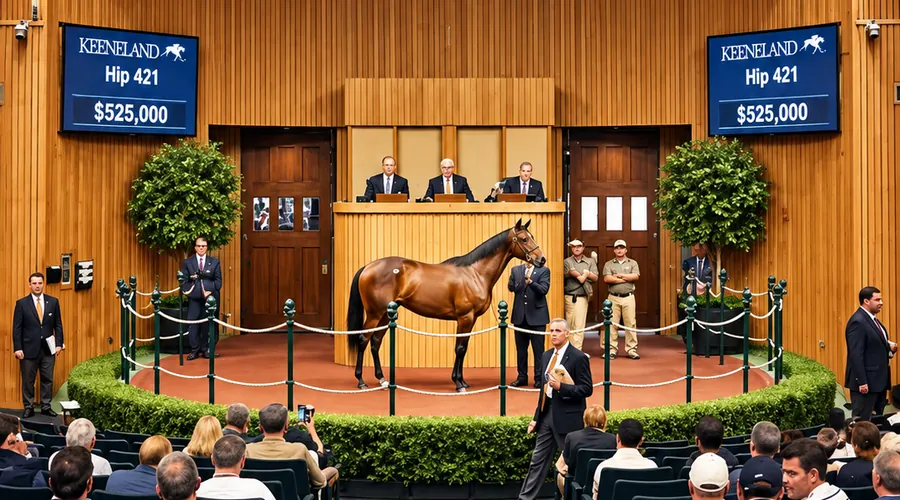
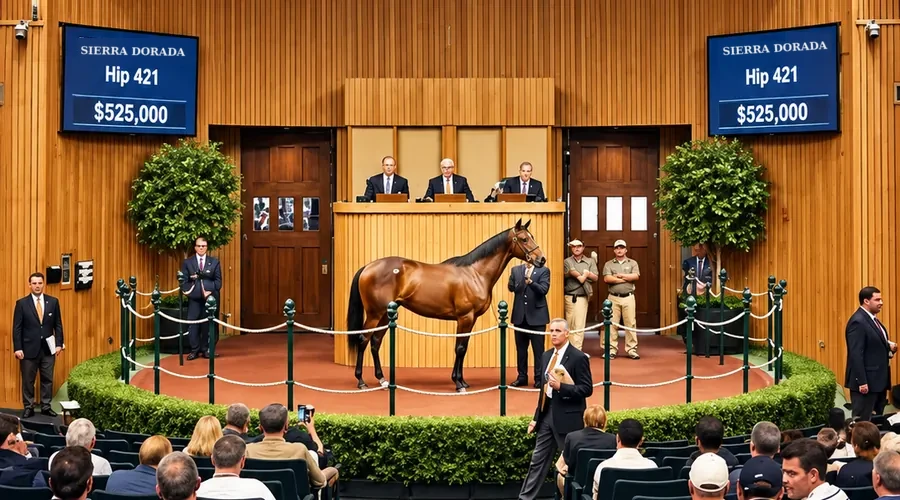
V27-V29: economía balanceada, Primeros pasos, perfiles y caja propia de rivales, imagen de subasta Sierra Dorada, exportar/importar partida
Claude-Session: https://claude.ai/code/session_01GE2kaJBKzPrWFKkMPZnvoq

Changed region(s): [[0.7778, 0.06, 0.9333, 0.12], [0.0933, 0.06, 0.2178, 0.12]]

diff --git a/www/index.html b/www/index.html
@@ -272,6 +272,7 @@ function crownWin(h,k,stable,you){
 const gpWins=h=>(h.gpW&&h.gpW[curSeason()])||0;
 function gpMark(h){h.gpW=h.gpW||{};h.gpW[curSeason()]=(h.gpW[curSeason()]||0)+1;}
 const UPK=220,UPKF=170,HANDLING=350;
+const upkOf=h=>{if(h.age<8)return UPKF;const v=horseValue(h);return UPK+(isFinite(v)?Math.min(1200,Math.round(v*0.0015)):0);}; /* el mantenimiento crece con el valor del caballo */
 const VET='Daniela Levy Arochi';
 const VET_BREED=5000; // servicio veterinario en cada cruza (USD)
 const MEDS=[
@@ -724,7 +725,7 @@ const breederOf=h=>h.br==='me'?G.name:(h.br||(h.sid!=null&&G.stables[h.sid]?G.st
 const nodeOf=x=>({n:x.name,s:x.ped?x.ped.s:null,d:x.ped?x.ped.d:null});
 function trim(n,k){return(!n||k<=0)?null:{n:n.n,s:trim(n.s,k-1),d:trim(n.d,k-1)};}
 function newGame(name,colors){
-  G={siv:2,kids:{},trophies:[],staff:{T:{id:'T0',s:1},J:{id:'J0',s:1},F:{id:'F0',s:1}},nm2:1,priceIdx:[],tx:[],classics:[],sireW:{},name:name||'Cuadra Los Aztecas',colors:colors||{c1:SW[0],c2:SW[9]},money:100000,week:1,nid:1,rid:1,earnS:0,hall:[],
+  G={tut:{},siv:2,kids:{},trophies:[],staff:{T:{id:'T0',s:1},J:{id:'J0',s:1},F:{id:'F0',s:1}},nm2:1,priceIdx:[],tx:[],classics:[],sireW:{},name:name||'Cuadra Los Aztecas',colors:colors||{c1:SW[0],c2:SW[9]},money:100000,week:1,nid:1,rid:1,earnS:0,hall:[],
     horses:[],races:[],auction:[],news:[],records:{},stables:[],rivalHorses:[]};
   for(const D of DISTS)G.records[D]=Object.assign({week:0,you:false},SEED_RECORDS[D]);
   G.stables=RIVALS.map(r=>Object.assign({earn:0,wins:0},r));G.rstuds=[];ensureRLabs();
@@ -765,7 +766,9 @@ function clasicoName(D,k){
   const pool=(CLASSIC[D]||[]).concat(CLX);const di=DISTS.indexOf(D);
   return pool[(G.week*2+di*3+k*5+curSeason())%pool.length];
 }
-function genRaces(){
+const PZ=0.65; /* ajuste de economía: bolsas ordinarias ×0.65 (los Grandes Premios, clásicos del calendario, Futurity y especiales no cambian) */
+function genRaces(){const a=genRaces0();for(const r of a){if(r.tier!=='gp')r.purse=Math.round(r.purse*PZ/50)*50;}return a;}
+function genRaces0(){
   const out=[];const boost=Math.min(6,G.week*0.15);
   for(const D of DISTS)for(const tr of TIERS)for(let k=0;k<(tr.id==='gp'?2:tr.id==='clasico'?4:3);k++){
     let purse=Math.round(PURSE[D]*tr.mult/50)*50;const target=tr.lv+boost;
@@ -808,6 +811,51 @@ const SCL=[
  {w:33,n:'Clásico Herradura de Plata',D:330,g:1,p:500000},
  {w:35,n:'Copa Estrella Fugaz',D:220,g:3,p:160000,juv:1}];
 const SEL_END=5;
+/* perfil de cada cuadra rival: criadora (busca el mejor cruce), compradora (compra más en subastas) o corredora (prefiere corredores) */
+const PF={crio:['🧬','Criadora'],comp:['💰','Compradora'],corr:['🏇','Corredora']};
+const pfOf=si=>{const st=G.stables[si];if(!st)return 'corr';if(!st.pf)st.pf=['crio','comp','corr'][hs(st.name)%3];return st.pf;};
+function pickStab(kind){
+  const w=G.stables.map((_,i)=>{const p=pfOf(i);let x=1;if(p==='comp')x=2;if(kind==='stal'||kind==='mare'||kind==='share'||kind==='foal'){if(p==='crio')x*=2.5;if(p==='corr')x*=0.6;}else if(kind==='run'){if(p==='corr')x*=2.5;if(p==='crio')x*=0.6;}return x;});
+  let r=Math.random()*w.reduce((a,b)=>a+b,0);for(let i=0;i<w.length;i++){r-=w[i];if(r<=0)return i;}return 0;
+}
+/* ---------- CAJA DE LAS CUADRAS RIVALES ---------- */
+const RIVFEE=0.5,RIVUPK=1,RIVNET=0.55,RIVOH=1100; /* neto del premio tras jinete, entrenador y gastos; costo fijo semanal por caballo */
+const CASH0=st=>Math.round((350000+(hs(st.name)%8)*120000)/1000)*1000;
+const stCash=st=>{if(st.cash==null)st.cash=CASH0(st);return st.cash;};
+function pay(si,x){const st=G.stables[si];if(!st||!isFinite(x))return;stCash(st);st.cash+=x;}
+const rivUpk=h=>{const v=horseValue(h);return 190+RIVOH+(isFinite(v)?Math.min(900,Math.round(v*0.001)):0);};
+function rivalEconomy(rep){
+  /* gastos semanales y crisis */
+  G.stables.forEach((st,si)=>{
+    stCash(st);
+    const mine=G.rivalHorses.filter(h=>h.sid===si&&!h.g);
+    st.cash-=Math.round(mine.reduce((a,h)=>a+rivUpk(h),0)*RIVUPK);
+    if(st.cash<-20000){
+      const w=mine.filter(h=>!(h.ex&&h.pin>0)).sort((a,b)=>rating(a)-rating(b)).slice(0,Math.max(1,Math.ceil(mine.length*0.4)));
+      let n=0;
+      for(const h of w){if(mine.length-n<=5)break;const lot=lotFrom(h,'run',st.name);G.auction.push(lot);st.cash+=Math.round(lot.price*0.6);G.rivalHorses.splice(G.rivalHorses.indexOf(h),1);n++;}
+      st.cap=Math.max(5,(st.cap||8)-2);
+      if(n&&rep.news.length<16)rep.news.push(`📉 ${st.name} atraviesa una crisis de liquidez y vende ${n} caballo${n>1?'s':''} en la Subasta Sierra Dorada MX`);
+      if(st.cash<-20000){st.cash=120000;st.brk=(st.brk||0)+1;if(rep.news.length<16)rep.news.push(`🏦 ${st.name} cae en quiebra y es rescatada por nuevos inversionistas`);}
+    }
+  });
+  buildMap();
+  /* compras en la subasta de México por cuadras con caja */
+  let bought=0;
+  const order=G.stables.map((_,i)=>i).sort(()=>Math.random()-0.5);
+  for(const si of order){
+    if(bought>=2)break;const st=G.stables[si],pf=pfOf(si);
+    if(stCash(st)<250000)continue;
+    if(Math.random()>({comp:0.5,corr:0.35,crio:0.15})[pf])continue;
+    const mine=G.rivalHorses.filter(h=>h.sid===si&&!h.g).map(rating).sort((a,b)=>a-b),med=mine.length?mine[Math.floor(mine.length/2)]:55;
+    const c=G.auction.filter(a=>a.lot==='run'&&a.price<=st.cash*0.3&&rating(a)>=med).sort((a,b)=>rating(b)/Math.max(1,b.price)-rating(a)/Math.max(1,a.price)||rating(b)-rating(a));
+    if(c[0]&&placeRival(c[0],si,{})){st.cash-=c[0].price;G.auction=G.auction.filter(x=>x!==c[0]);bought++;if(rep.news.length<14&&Math.random()<0.7)rep.news.push(`🔨 ${st.name} compra a ${c[0].name} en la Subasta Sierra Dorada MX por ${fmt(c[0].price)}`);}
+    else if(pf==='crio'){const sl=G.auction.filter(a=>a.lot==='stal'&&a.price<=st.cash*0.35).sort((a,b)=>rating(b)-rating(a))[0];
+      if(sl){addRStud(si,sl);st.cash-=sl.price;G.auction=G.auction.filter(x=>x!==sl);bought++;if(rep.news.length<14)rep.news.push(`🐎 ${st.name} compra al semental ${sl.name} por ${fmt(sl.price)}`);}}
+  }
+  buildMap();
+}
+const pairVal=(m,x)=>{const p=predict(m,x);return(p.stats.speed+p.stats.start+p.stats.stamina)/3;};
 function genSelectLots(rep){
   const out=[];
   if(!G.stables)return out;
@@ -817,7 +865,9 @@ function genSelectLots(rep){
     const m=mares[0];if(!m)continue;
     const own=(G.rstuds||[]).filter(x=>x.sid===si).sort((a,b)=>rating(b)-rating(a))[0];
     const best=pool.filter(x=>!x.legend).sort((a,b)=>rating(b)-rating(a)).slice(0,6);
-    const sire=Math.random()<0.15?pick(LEGENDS):(own&&Math.random()<0.55)?own:pick(best.length?best:[own].filter(Boolean));
+    let sire=Math.random()<0.15?pick(LEGENDS):(own&&Math.random()<0.55)?own:pick(best.length?best:[own].filter(Boolean));
+    stCash(G.stables[si]);
+    if(pfOf(si)==='crio'){const cand=[own].concat(best).filter(x=>x&&!related(m,x)).sort((a,b)=>pairVal(m,b)-pairVal(m,a));if(cand[0])sire=cand[0];}
     if(!sire)continue;
     ensureRLabs();LABCTX=G.stables[si].lab;GENCTX=G.stables[si].gen||[];let f,cbv;try{f=breed(m,sire);cbv=labBonus('cond',sire);}finally{LABCTX=null;GENCTX=null;}
     const sex=Math.random()<.5?'H':'M';
@@ -825,6 +875,7 @@ function genSelectLots(rep){
     o.sireName=sire.name;o.damName=m.name;o.anc=f.anc;o.ped={s:{n:sire.name},d:{n:m.name}};if(cbv)o.cb=cbv;
     o.lot='sel';o.seller=G.stables[si].name;
     o.price=Math.max(3500,Math.round(horseValue(o)*2.4/50)*50);
+    pay(si,Math.round(o.price*0.7)-((sire&&sire.sid!==si&&!sire.legend)?Math.min(25000,Math.round(studFee(rating(sire),false))):0));
     out.push(o);
     if(rep&&rep.news.length<16&&out.length<=5)rep.news.push(`🌟 Subasta Selecta: ${G.stables[si].name} ofrece un potro de ${m.name} y ${sire.name}`);
   }
@@ -1007,10 +1058,10 @@ function rotateRivals(rep){
       G.rivalHorses[idx]=nh;
       if(r>=64||(h.wins||0)>=14&&r>=58){
         const lot=h.sex==='M'?'stal':'mare';
-        if(h.sex==='M')addRStud(si,h);else if(Math.random()<0.6)lots.push(lotFrom(Object.assign({},h,{age:Math.max(h.age,150)}),lot,st));
+        if(h.sex==='M')addRStud(si,h);else if(Math.random()<0.6){const L=lotFrom(Object.assign({},h,{age:Math.max(h.age,150)}),lot,st);lots.push(L);pay(h.sid,Math.round(L.price*0.7));}
         if(news<4){news++;rep.news.push(h.sex==='M'?`🐎 ${st} retira a ${h.name} como semental (${h.wins} victorias)`:`🐎 ${st} retira a ${h.name} a la cría (${h.wins} victorias)`);}
       }else{
-        lots.push(lotFrom(h,'run',st));
+        {const L=lotFrom(h,'run',st);lots.push(L);pay(h.sid,Math.round(L.price*0.7));}
         if(news<4&&Math.random()<0.6){news++;rep.news.push(`🔨 ${st} pone a la venta a ${h.name} en la Subasta Sierra Dorada MX`);}
       }
     }
@@ -1024,7 +1075,7 @@ function rotateRivals(rep){
     else if(med>0&&ls<med*0.6&&Math.random()<0.5)st.cap=Math.max(5,st.cap-1);
     else if(Math.random()<0.2)st.cap=Math.min(MAXRACERS,st.cap+1);
     let mine=G.rivalHorses.filter(h=>h.sid===si);
-    let add=0;while(mine.length<st.cap&&add<3){const nh=Object.assign(mkRival(si),{age:Math.round(rnd(104,130))});G.rivalHorses.push(nh);mine.push(nh);add++;}
+    let add=0;while(mine.length<st.cap&&add<3){const nh=Object.assign(mkRival(si),{age:Math.round(rnd(104,130))});const cost=Math.round(horseValue(nh)*0.8);if(mine.length>=5&&stCash(st)<cost+60000)break;if(mine.length>=5)st.cash-=cost;G.rivalHorses.push(nh);mine.push(nh);add++;}
     if(add&&grown<3&&rep){grown++;rep.news.push(`🏇 ${st.name} amplía su cuadra: ahora corre con ${mine.length} caballos`);}
     if(mine.length>st.cap){const w=mine.filter(h=>!(h.ex&&h.pin>0)).sort((a,b)=>rating(a)-rating(b))[0];if(w){G.rivalHorses.splice(G.rivalHorses.indexOf(w),1);lots.push(lotFrom(w,'run',st.name));}}
    }}
@@ -1495,7 +1546,7 @@ function rRancho(){
   const preg=rs.filter(x=>x.sex==='H'&&x.status==='retired'&&x.preg&&!isFoal(x));
   const foals=rs.filter(isFoal);
   const mat=[...preg,...foals];
-  const upk=rs.reduce((q,x)=>q+(x.age<8?UPKF:UPK),0);
+  const upk=rs.reduce((q,x)=>q+upkOf(x),0);
   let h=`<div class="card" style="padding:8px">${ranchSvg(stal,mares,mat)}</div>
    <div class="legend" style="font-size:11px;color:var(--muted);margin:4px 2px">🔵 semental · 🌸 yegua preñada · toca un caballo del dibujo para abrir su ficha</div>
  <button class="btn gold" data-act="labopen" style="margin-bottom:8px">🧬 Laboratorio genético · Vel ${labLv('speed')} · Arr ${labLv('start')} · Res ${labLv('stamina')} · Cond ${labLv('cond')}</button>
@@ -1511,11 +1562,20 @@ function rRancho(){
   if(foals.length)h+='<div class="title">Potros</div>'+foals.map(horseCard).join('');
   return h;
 }
+const MIS=[['b','🔨','Compra un corredor en la Subasta','mercado'],['r','🏇','Inscríbelo en una carrera','carreras'],['w','⏭','Avanza una semana (botón Sem ▶)',null],['c','🧬','Cruza a tu yegua en Crianza','crianza'],['l','📅','Revisa el calendario de clásicos','carreras']];
+function misHTML(){
+  const T=G.tut;if(!T||T.done||T.off)return '';
+  const n=MIS.filter(m=>T[m[0]]).length;
+  return `<div class="card" style="border:1px solid var(--gold,#c9a24a)"><div class="row"><b>🎯 Primeros pasos</b><span class="sp"></span><span class="badge ${n===MIS.length?'g':'y'}">${n}/${MIS.length}</span></div>`+
+   MIS.map(m=>`<div class="row" style="margin:4px 0;gap:6px"><span>${T[m[0]]?'✅':'⬜'}</span><span style="flex:1;${T[m[0]]?'text-decoration:line-through;opacity:.6':''}">${m[1]} ${m[2]}</span>${!T[m[0]]&&m[3]?`<button class="btn sm ghost" data-act="tutgo" data-v="${m[3]}">Ir</button>`:''}</div>`).join('')+
+   `<div class="sub" style="margin-top:6px">Completa los 5 y recibes <b>$10,000</b> de bono de bienvenida.</div><button class="btn ghost sm" data-act="tutoff">Ocultar</button></div>`;
+}
+function misDone(k){const T=G&&G.tut;if(!T||T.done||T[k])return;T[k]=1;if(MIS.every(m=>T[m[0]])){T.done=1;G.money+=10000;toast('🎉 ¡Primeros pasos completos! +$10,000');}}
 function rCuadra(){
   const order={race:0,retired:1};
   const hs=G.horses.filter(h=>!inRanch(h)).sort((a,b)=>(isFoal(a)-isFoal(b))||(order[a.status]-order[b.status])||(rating(b)-rating(a)));
-  const upkeep=G.horses.reduce((s,h)=>s+(h.age<8?UPKF:UPK),0);
-  let h=`<div class="note">Gasto semanal: <b>${fmt(upkeep)} USD</b> · Corredores <b>${racersN()}/${MAXRACERS}</b> · ${G.horses.length} caballo${G.horses.length===1?'':'s'} en total. Toca un caballo para entrenar, retirar, vender o subastar. Tus yeguas, sementales y potros viven en el <b>🏡 Rancho</b>.</div>`;
+  const upkeep=G.horses.reduce((s,h)=>s+upkOf(h),0);
+  let h=misHTML()+`<div class="note">Gasto semanal: <b>${fmt(upkeep)} USD</b> · Corredores <b>${racersN()}/${MAXRACERS}</b> · ${G.horses.length} caballo${G.horses.length===1?'':'s'} en total. Toca un caballo para entrenar, retirar, vender o subastar. Tus yeguas, sementales y potros viven en el <b>🏡 Rancho</b>.</div>`;
   {const ij=G.horses.filter(x=>x.inj);h+=`<div class="card" style="background:${ij.length?'#fde9e4':'#eaf3ea'};border:1px solid ${ij.length?'#e0a99d':'#b9d6b9'}"><div class="row"><b>🏥 Clínica veterinaria</b><span class="sp"></span><span class="badge ${ij.length?'r':'g'}">${ij.length?ij.length+' lesionado'+(ij.length>1?'s':''):'todos sanos'}</span></div>${ij.length?ij.map(x=>`<div class="kv"><span>🩹 ${esc(x.name)}</span><b>${esc((injOf(x)||{}).name||'Lesión')} · ${x.inj.wk} sem</b></div>`).join(''):'<div class="sub">Ningún caballo lesionado.</div>'}<button class="btn gold" style="margin-top:8px" data-act="clinic">Abrir clínica · tratamiento y cirugía</button></div>`;}
   h+=`<button class="btn ghost" data-act="clinic">🏥 Clínica veterinaria${G.horses.some(x=>x.inj)?' · '+G.horses.filter(x=>x.inj).length+' lesionado(s)':''}</button>`;
   const nr=G.horses.filter(inRanch).length;if(nr)h+=`<button class="btn ghost" data-act="tab" data-v="rancho">🏡 Ir a ${esc(ranchName())} · ${nr} en el rancho</button>`;
@@ -1683,9 +1743,11 @@ function rMercado(){
     {const op=G.rstuds.filter(x=>x.synOpen&&!(G.myShares&&G.myShares[x.id])).sort((a,b)=>rating(b)-rating(a));
      h+=`<div class="title">🤝 Sementales en sindicación</div><div class="sub">Sus dueños deciden si sindicalizan y a qué precio ponen cada parte (25%). Quien compra una parte cría 2 potros por temporada sin costo y los demás a mitad de precio.</div>`;
      h+=op.length?op.map(x=>`<div class="card ph2">${phImg('semental',x.coat)}<div class="row"><span class="dot" style="background:${COAT_HEX[x.coat]}"></span><div class="h">${flg(x)} ${esc(x.name)}</div><span class="sp"></span><b>${fmt(x.synPrice||synPrice(x))}</b></div><div class="sub">${esc(G.stables[x.sid].name)} · Rating ${Math.round(rating(x))} · ideal ${dRound(x.dist)} yd · ${x.wins} victorias · socios: ${(x.syn||[]).map(i=>esc(G.stables[i].name)).join(', ')}</div><button class="btn gold" style="margin-top:4px" data-act="buyshare" data-id="${x.id}">Comprar 25% · precio fijado por ${esc(G.stables[x.sid].name)}</button></div>`).join(''):'<div class="sub" style="margin:6px 0">Por ahora ningún dueño ofrece partes. Revisa cada semana.</div>';}
+    {const cs=G.stables.map((x,i)=>({n:x.name,c:stCash(x)})).sort((a,b)=>b.c-a.c);
+     h+=`<div class="note">💰 Cuadra más fuerte: <b>${esc(cs[0].n)}</b> (${fmt(Math.round(cs[0].c/1000)*1000)}) · En apuros: <b>${esc(cs[cs.length-1].n)}</b> (${fmt(Math.round(cs[cs.length-1].c/1000)*1000)}). Las cuadras con caja compran más en las subastas; las que se quedan sin fondos venden caballos o quiebran.</div>`;}
     G.stables.forEach((st,si)=>{
       const ls=G.rstuds.filter(x=>x.sid===si).sort((a,b)=>rating(b)-rating(a));
-      h+=`<div class="title">${silk(st.c1,st.c2)} ${esc(st.name)}</div>`;
+      h+=`<div class="title">${silk(st.c1,st.c2)} ${esc(st.name)} <span class="badge k">${PF[pfOf(si)][0]} ${PF[pfOf(si)][1]}</span> <span class="badge ${stCash(st)<80000?'r':'g'}">💵 ${fmt(Math.round(stCash(st)/1000)*1000)}</span>${st.brk?` <span class="badge y">🏦 ×${st.brk}</span>`:''}</div>`;
       if(!ls.length)h+='<div class="sub">Sin sementales por ahora.</div>';
       h+=ls.map(s=>{const sold=(s.bk||0)>=RS_CAP;const mi=G.myShares&&G.myShares[s.id];return `<div class="card ph2">${phImg('semental',s.coat)}<div class="row"><span class="dot" style="background:${COAT_HEX[s.coat]}"></span><div class="h">${flg(s)} ${esc(s.name)}</div>${s.syn?'<span class="badge k">🤝 Sindicato</span>':''}<span class="sp"></span><b>${fmt(sireCost(s))}</b></div>
         <div class="sub" style="margin:2px 0 4px">Ideal ${dRound(s.dist)} yd · Rating ${Math.round(rating(s))} · SI ${siShow(s)} · ${s.wins} victorias · demanda <b>${rsDemand(s)}</b> (${s.bk||0}/${RS_CAP} yeguas) · + ${fmt(VET_BREED)} veterinario</div>${statBars(s)}
@@ -1943,6 +2005,7 @@ function awardRival(h,place,r,T,N){
   h.lw=G.week;if(!h.g)h.rest=restWeeks(h,r)+1;
   if(r.tier==='claim')h.clm=curSeason();
   const prize=Math.round(r.purse*SHARE[place]);
+  if(!h.g)pay(h.sid,Math.round(prize*RIVNET)-Math.round((r.fee||0)*RIVFEE));
   if(h.ex&&G.out&&G.out[h.name]){const e=G.out[h.name];e.st=G.stables[h.sid].name;e.r++;e.e+=prize;if(place===0){e.w++;if(r.tier==='gp')e.gp++;}
     if(e.ss!==curSeason()){e.ss=curSeason();e.es=0;}e.es+=prize;
     e.log.unshift({s:curSeason(),w:swk(),race:r.name.split(' · ')[0],D:r.D,p:place+1,n:N||0,T:T||0});e.log=e.log.slice(0,8);
@@ -2030,7 +2093,7 @@ function startRace(rid,hid,hid2){
   const nE=h2?2:1;
   if(!r||!h||r.ran||G.money<r.fee*nE||!eligible(h)||!rOK(r,h)||(r.fut&&!(h.fut&&h.wins>0))||(r.cc&&gpWins(h)<2)||(r.aaf&&!fqOk(h,r.fk))||(r.aafq&&!(h.age<=AAF.MAXAGE&&!fqOk(h,r.fk))))return;
   if(h2&&(!pairOK(r)||!entryOK(r,h2)))return;
-  G.money-=r.fee*nE;r.ran=true;
+  G.money-=r.fee*nE;r.ran=true;misDone('r');
   h.cond=clamp(h.cond-(20+r.D/30),0,100);if(h2)h2.cond=clamp(h2.cond-(20+r.D/30),0,100);
   const tr=TIERS.find(t=>t.id===r.tier);
   const dk1=h.dopeId?DRUGS.find(x=>x.id===h.dopeId):null,dk2=h2&&h2.dopeId?DRUGS.find(x=>x.id===h2.dopeId):null;
@@ -2658,11 +2721,11 @@ function doBreed(){
   if(racersN()>=MAXRACERS){toast('Tu cuadra ya tiene '+MAXRACERS+' corredores (potros incluidos). Vende o retira alguno antes de criar');return;}
   if(s.rs&&(s.bk||0)>=RS_CAP){toast(s.name+' ya agotó sus servicios de la temporada');return;}
   const cost=sireCost(s)+VET_BREED;if(G.money<cost){toast('No te alcanza el dinero');return;}
-  G.money-=cost;if(s.rs)s.bk=(s.bk||0)+1;{const u=synUse(s);if(u)u.un++;}
+  G.money-=cost;if(s.rs){pay(s.sid,cost);s.bk=(s.bk||0)+1;}{const u=synUse(s);if(u)u.un++;}
   m.preg={weeks:4,sire:{id:s.id,name:s.name,speed:s.speed,start:s.start,stamina:s.stamina,dist:s.dist,coat:s.coat}};
   if(G.horses.some(x=>x.id===s.id)){s.book=s.book||[];s.book.unshift({w:G.week,season:curSeason(),mareId:m.id,mare:m.name,foal:null,foalId:null});s.book=s.book.slice(0,80);}
   UI.mare=null;UI.sire=null;
-  save();render();toast(`${m.name} quedó preñada. Nace en 4 semanas.`);
+  save();render();misDone('c');toast(`${m.name} quedó preñada. Nace en 4 semanas.`);
 }
 function makeFoal(m){const f=makeFoal0(m);const g=genActive();if(g.length)f.gl=g.map(l=>l.name);return f;}
 function makeFoal0(m){
@@ -2731,9 +2794,10 @@ function weekReport(){
     else if(!x.sus&&Math.random()<0.06){const k=pick(['speed','start','stamina']);if(x[k]<95)x[k]+=1;} // programa de entrenamiento
   });
   ensureRStuds();
+  rivalEconomy(rep);
   (G.rstuds||[]).forEach(x=>{
     const lam=clamp((rating(x)-40)/50,0.1,0.95);
-    if(Math.random()<lam&&(x.bk||0)<RS_CAP)x.bk=(x.bk||0)+1;
+    if(Math.random()<lam&&(x.bk||0)<RS_CAP){pay(x.sid,Math.round(rsFee(x)*0.85));x.bk=(x.bk||0)+1;}
     if((x.bk||0)>=RS_CAP&&!x.sold){x.sold=true;rep.news.push(`🐎 ${x.name} (${G.stables[x.sid].name}) agotó su cupo de servicios de la temporada`);}
   });
   G.week++;
@@ -2752,7 +2816,7 @@ function weekReport(){
     /* cada temporada equivale a un año: 40 semanas de juego + 12 de ajuste = 52 */
     rep.news.push('🎂 Termina la temporada '+closed+': todos los caballos cumplen un año más');G.horses.forEach(h=>{if(h.age>=8)h.age+=12;});G.rivalHorses.forEach(h=>{if(h.age>=8)h.age+=12;});(G.guests||[]).forEach(h=>{h.age+=12;});
     rep.news.push('🎂 Empieza una nueva temporada: todos los caballos cumplen un año más');
-    G.stables.forEach(x=>{x.lastS=x.earnS||0;x.earnS=0;x.raceS=0;x.winS=0;});G.raceS=0;G.winS=0;G.rivalHorses.forEach(x=>{x.earnS=0;});G.horses.forEach(x=>{x.earnS=0;});G.earnS=0;
+    G.stables.forEach(x=>{if(stCash(x)>2000000)x.cash-=Math.round((x.cash-2000000)*0.5/1000)*1000; /* dividendos a los socios */ x.lastS=x.earnS||0;x.earnS=0;x.raceS=0;x.winS=0;});G.raceS=0;G.winS=0;G.rivalHorses.forEach(x=>{x.earnS=0;});G.horses.forEach(x=>{x.earnS=0;});G.earnS=0;
   }
   const born=[];
   for(const h of G.horses){
@@ -2761,7 +2825,7 @@ function weekReport(){
     h.age++;if(h.age===8)h.age=104;h.medBoost=0;
     h.cond=h.status==='race'?Math.min(100,h.cond+25+Math.round((staffOf('T').sk-50)/10)):100;
     if(h.shoe&&h.shoe.wk>0&&h.status==='race')h.shoe.wk--;
-    rep.upkeep+=h.age<8?UPKF:UPK;
+    rep.upkeep+=upkOf(h);
     if(h.rest>0)h.rest--;
     if(h.preg){h.preg.weeks--;if(h.preg.weeks<=0){born.push({m:h,f:makeFoal(h)});h.preg=null;h.rest=2;}}
     if(h.syn&&h.status==='retired'&&h.sex==='M'){
@@ -2856,16 +2920,18 @@ function weekReport(){
   /* los rivales también venden caballos en la Heritage Place de EE.UU. */
   if(Math.random()<0.35){const c=G.rivalHorses.map((h,i)=>({h,i})).filter(o=>!o.h.g&&!o.h.ex&&!(o.h.pin>0)&&rating(o.h)>=68);
     if(c.length){const o=pick(c),h=o.h,price=Math.round(horseValue(h)*rnd(1.1,1.4)/50)*50;
-      if(rep.news.length<18)rep.news.push(`🇺🇸 ${G.stables[h.sid].name} vendió a ${h.name} en la Heritage Place USA por ${fmt(price)} (comprador: ${pick(SELLERS_USA)})`);
+      pay(h.sid,price);if(rep.news.length<18)rep.news.push(`🇺🇸 ${G.stables[h.sid].name} vendió a ${h.name} en la Heritage Place USA por ${fmt(price)} (comprador: ${pick(SELLERS_USA)})`);
       G.rivalHorses[o.i]=Object.assign(mkRival(h.sid),{age:104});buildMap();}}
   /* las cuadras rivales también compran en la Heritage Place */
   {const up=G.auction.filter(a=>a.lot==='usa');
    const buys=Math.min(up.length,Math.random()<0.8?(Math.random()<0.4?2:1):0);
-   for(let q=0;q<buys;q++){const lot=up.splice(Math.floor(Math.random()*up.length),1)[0];const si=Math.floor(Math.random()*G.stables.length),stn=G.stables[si].name;
+   for(let q=0;q<buys;q++){const lot=up.splice(Math.floor(Math.random()*up.length),1)[0];const si=pickStab(lot.usaK),stn=G.stables[si].name;
+     if(stCash(G.stables[si])<lot.price*(lot.usaK==='share'?1:1.15)+50000)continue;
      let ok=false;
      if(lot.usaK==='share'){const own=(si+1+Math.floor(Math.random()*(G.stables.length-1)))%G.stables.length;addRStud(own,lot);
        const x=G.rstuds.filter(q=>q.sid===own&&q.name===lot.name)[0];if(x){const th=G.stables.map((_,i)=>i).filter(i=>i!==own&&i!==si)[0];x.syn=[own,si,th];x.synOpen=Math.random()<0.5;x.synPrice=lot.price;x.usa=1;}ok=!!x;}
      else if(lot.usaK==='stal'){addRStud(si,lot);ok=true;rivalSyndicate(si,lot,rep);}else if(lot.usaK==='mare')ok=true;else if((G.usaRun||0)<4){ok=placeRival(lot,si,{usa:1});if(ok)G.usaRun=(G.usaRun||0)+1;}
+     if(ok)G.stables[si].cash-=lot.price;
      if(ok&&rep.news.length<16)rep.news.push(`🇺🇸 ${stn} compró en la Heritage Place ${lot.usaK==='share'?'una parte (25%) del semental':lot.usaK==='stal'?'al semental':lot.usaK==='mare'?'a la yegua de cría':lot.usaK==='foal'?'al potro':'a'} ${lot.name} por ${fmt(lot.price)}`);}}
   /* cada semana algún dueño decide por su cuenta sindicalizar un semental */
   if(Math.random()<0.25&&G.rstuds&&G.rstuds.length){const c=G.rstuds.filter(x=>!x.legend&&!x.synOpen&&!(G.myShares&&G.myShares[x.id]));
@@ -2873,7 +2939,7 @@ function weekReport(){
       if(rep.news.length<16)rep.news.push(`🤝 ${G.stables[x.sid].name} ofrece una parte (25%) de ${x.name} en ${fmt(x.synPrice)}`);}}
   /* Fomento a criaderos locales: apoyo del 25% para que compren sementales top de la Heritage Place */
   {const tops=G.auction.filter(a=>a.lot==='usa'&&a.usaK==='stal');
-   tops.forEach(lot=>{if(Math.random()<0.18){const si=Math.floor(Math.random()*G.stables.length);addRStud(si,lot);G.auction=G.auction.filter(x=>x!==lot);rivalSyndicate(si,lot,rep,Math.round(lot.price*0.75/50)*50);}});}
+   tops.forEach(lot=>{if(Math.random()<0.18){const si=pickStab('stal'),pp=Math.round(lot.price*0.25/50)*50;if(stCash(G.stables[si])<pp+80000)return;G.stables[si].cash-=pp;addRStud(si,lot);G.auction=G.auction.filter(x=>x!==lot);rivalSyndicate(si,lot,rep,Math.round(lot.price*0.75/50)*50);}});}
   G.races=genRaces();G.auction=genAuction().concat(extra,prevFut,genUSALots());snapPrices();
   {const inF=new Set();G.races.forEach(r=>r.field.forEach(id=>inF.add(id)));G.guests=(G.guests||[]).filter(g=>(g.rs||0)<MAXRS||inF.has(g.id));}
   if(swk()%3===0){
@@ -2987,12 +3053,14 @@ function formulaSheet(){
   <div class="formula">g = |ln(distSemental / distYegua)| / ln 4      (0 = igual, 1 = 110 vs 440)
 
 Bono   = 5·e^(−((g−0.15)/0.3)²) − 4·máx(0, g−0.55)/0.45
-Sigma  = 3 + 7·g            (variación del potro)
+Sigma  = (5 + 7·g + 0.1·máx(0, prom−70)) · (1 + 0.8·(1−vigor))
 
-Distancia potro = e^( (ln dS + ln dY)/2 + ruido )
-Stat potro = prom + 0.12·(60 − prom) + Bono + ruido(Sigma)
+Herencia = 40% semental + 40% yegua + 20% línea ancestral
+Regresión = 0.12 + 0.009·máx(0, h−72) + 0.01·máx(0, h−85)
+Stat potro = h + Regresión·(60 − h) + Bono + nick − 12·(1−vigor) + tirada
 
-Ajuste: si el potro sale más largo que el promedio de sus padres, gana Resistencia y pierde Arranque (y al revés).</div>
+Tirada genética (todo el potro): 18% descalabro, 6% joya, el resto normal.
+Vigor por edad: 100% hasta 11 años, 88% a 14, 68% a 18, 48% a 22.</div>
   <p class="sub"><b>Resumen:</b> cruzar padres con distancias parecidas pero no idénticas (g ≈ 0.15) da el mayor bono y poca variación. Cruzar un velocista de 110 con un fondista de 440 da un potro impredecible y con penalización.</p>
   <p class="sub">En carrera, cada atributo pesa según la distancia: corta = Arranque, larga = Resistencia. Además, el rating se castiga si corres lejos de la distancia ideal.</p>
   <button class="btn gold" data-act="close">Entendido</button>`);
@@ -3013,6 +3081,27 @@ function tutSheet(i){i=Math.max(0,Math.min(TUT.length-1,+i||0));const q=TUT[i];
   ${q.go?`<button class="btn gold" data-act="tutgo" data-v="${q.go}">${q.gl}</button>`:''}
   <div class="row" style="gap:6px">${i>0?`<button class="btn ghost" style="flex:1" data-act="tut" data-v="${i-1}">◀ Atrás</button>`:''}${i<TUT.length-1?`<button class="btn" style="flex:1" data-act="tut" data-v="${i+1}">Siguiente ▶</button>`:`<button class="btn" style="flex:1" data-act="tutend">¡A jugar!</button>`}</div>
   <button class="btn ghost" data-act="tutend">Cerrar tutorial</button>`);}
+const SAVE_TAG='QHS1:';
+function saveCode(){return SAVE_TAG+btoa(unescape(encodeURIComponent(JSON.stringify(G))));}
+function parseCode(t){
+  t=String(t||'').replace(/\s+/g,'');if(!t)return null;
+  try{if(t.indexOf(SAVE_TAG)===0)t=decodeURIComponent(escape(atob(t.slice(SAVE_TAG.length))));const o=JSON.parse(t);
+    return(o&&Array.isArray(o.horses)&&Array.isArray(o.stables)&&typeof o.money==='number'&&typeof o.week==='number')?o:null;}catch(e){return null;}
+}
+function expoSheet(){
+  openSheet(`<h3>💾 Exportar partida</h3><p class="sub">Copia este código y guárdalo (notas, WhatsApp, correo). Para recuperar tu partida, o pasarla a otro teléfono, usa <b>Importar partida</b> y pega el código.</p>
+  <textarea id="expc" readonly style="width:100%;height:120px;font-size:11px;border-radius:8px;padding:6px;box-sizing:border-box">${saveCode()}</textarea>
+  <button class="btn gold" data-act="expcopy">📋 Copiar código</button>
+  <button class="btn ghost" data-act="expdl">⬇ Descargar archivo</button>
+  <button class="btn ghost" data-act="close">Cerrar</button>`);
+}
+function impoSheet(msg){
+  openSheet(`<h3>📥 Importar partida</h3><p class="sub">Pega aquí el código que exportaste. <b>Reemplazará tu partida actual</b>; si dudas, primero exporta la actual.</p>
+  <textarea id="impc" placeholder="QHS1:..." style="width:100%;height:120px;font-size:11px;border-radius:8px;padding:6px;box-sizing:border-box"></textarea>
+  ${msg?`<div class="warn" style="margin:6px 0">${msg}</div>`:''}
+  <button class="btn gold" data-act="impok">Revisar código</button>
+  <button class="btn ghost" data-act="close">Cancelar</button>`);
+}
 function helpSheet(){
   openSheet(`<h3>Cómo se juega</h3>
   <p class="sub">1) Empiezas solo con una yegua de cría. Compra corredores en <b>Subasta Sierra Dorada MX</b> o cruza a tu yegua con un semental.<br>2) Inscribe a tus caballos en carreras de 110 a 440 yd contra las cuadras rivales: <b>Maiden</b> (solo caballos sin victorias), <b>Allowance</b> y <b>Clásicos</b>, que llevan el nombre de las leyendas y se corren a su distancia. Gana bolsa según tu lugar y busca romper el <b>récord de pista</b>.<br>3) Entrena atributos (cuesta dinero y condición).<br>4) <b>Retira</b> a tus mejores caballos: los machos pasan a semental (puedes ofrecerlos al servicio de otras cuadras y cobrar) y las yeguas a cría.<br>5) El año se divide en <b>temporadas de 40 semanas</b>: al terminar se corona a la cuadra campeona (bono de $10,000 si eres tú) y al caballo del año.<br>5b) El <b>veterinario</b> cobra US$5,000 por cada cruza y, para caballos en competencia, aplica sueros y suplementos (Básico, Intermedio o Premium) que recuperan condición.<br>6) Puedes vender ya (80%) o <b>subastar</b> tus caballos en la Subasta Sierra Dorada MX por un precio incierto.<br>7) Avanza la semana con <b>Sem ▶</b>: pagas mantenimiento, nacen los potros y las cuadras rivales siguen compitiendo.</p>
@@ -3020,6 +3109,8 @@ function helpSheet(){
   <button class="btn ghost" data-act="theme">🎨 Tema: ${({dia:'Día',atardecer:'Atardecer',noche:'Noche'})[document.documentElement.dataset.theme]||'Día'} (tocar para cambiar)</button>
   <button class="btn ghost" id="menuMute" data-act="mute">${G.mute?'Sonido: apagado':'Sonido: encendido'}</button>
   <button class="btn ghost" data-act="setup">Nombre y colores de la cuadra</button>
+  <button class="btn ghost" data-act="expo">💾 Exportar partida (respaldo)</button>
+  <button class="btn ghost" data-act="impo">📥 Importar partida</button>
   <button class="btn ghost" data-act="formula">Ver fórmula de cruza</button>
   <button class="btn ghost" data-act="newgame">Empezar de nuevo</button>
   <button class="btn gold" data-act="close">Cerrar</button>`);
@@ -3736,7 +3827,7 @@ document.addEventListener('click',e=>{
     case 'svsel':case 'svhost':case 'svjoin':case 'svleave':case 'svbuy':case 'svshare':case 'svcopy':case 'svpaste':case 'svpay':case 'svcancelp':svAction(a,t);break;
     case 'pjenter':case 'pjd0':case 'pjhost':case 'pjjoin':case 'pjleave':case 'pjdist':case 'pjhorse':case 'pjdrug':case 'pjbet':case 'pjready':case 'pjshare':case 'pjcopy':case 'pjpaste':pjAction(a,t);break;
     case 'tab':UI.tab=v;render();break;
-    case 'calcl':openSheet(calClassics());break;
+    case 'calcl':misDone('l');openSheet(calClassics());break;
     case 'ranchname':{const n=(($('#ranchn')&&$('#ranchn').value)||'').trim();if(n){G.ranch=n.slice(0,26);save();render();toast('Nombre del rancho guardado');}break;}
     case 'close':if(t.classList.contains('sheet-bg')&&SETUP.first&&!SETUP.done)break;closeSheet();break;
     case 'horse':showHorse(id);break;
@@ -3749,6 +3840,15 @@ document.addEventListener('click',e=>{
     case 'rzoom':{G.tz=Math.round(Math.max(0.5,Math.min(1,(G.tz||0.9)+0.1*(+v)))*10)/10;save();if(RACE){applyTZ();sizeRace();drawRace(RACE.lt||0);}toast('Tamaño de pista '+Math.round(G.tz*100)+'%');break;}
     case 'skip':if(RACE)RACE.skip=true;break;
     case 'tut':tutSheet(v);break;
+    case 'expo':expoSheet();break;
+    case 'expcopy':{const ta=$('#expc');if(!ta)break;ta.select();let ok=false;try{ok=document.execCommand('copy');}catch(e){}
+      if(!ok&&navigator.clipboard){navigator.clipboard.writeText(ta.value).then(()=>toast('Código copiado ✔'),()=>toast('Mantén presionado el texto para copiarlo'));}else toast(ok?'Código copiado ✔':'Mantén presionado el texto para copiarlo');break;}
+    case 'expdl':{try{const b=new Blob([saveCode()],{type:'text/plain'});const a=document.createElement('a');a.href=URL.createObjectURL(b);a.download='quarter-horse-partida.txt';document.body.appendChild(a);a.click();a.remove();toast('Archivo generado');}catch(e){toast('No se pudo descargar: copia el código');}break;}
+    case 'impo':impoSheet();break;
+    case 'impok':{const o=parseCode(($('#impc')||{}).value);if(!o){impoSheet('El código no es válido o está incompleto.');break;}
+      window.__imp=o;openSheet(`<h3>¿Reemplazar tu partida?</h3><p class="sub">Partida a importar: <b>${esc(o.name||'Cuadra')}</b> · Temporada ${Math.floor((o.week-1)/SEASON_WEEKS)+1} · ${o.horses.length} caballos · ${fmt(o.money)}.<br>Tu partida actual se perderá.</p><button class="btn red" data-act="impgo">Sí, importar</button><button class="btn ghost" data-act="close">Cancelar</button>`);break;}
+    case 'impgo':{if(!window.__imp)break;try{localStorage.setItem(KEY,JSON.stringify(window.__imp));}catch(e){toast('No se pudo guardar');break;}location.reload();break;}
+    case 'tutoff':if(G.tut)G.tut.off=1;save();render();break;
     case 'tutend':try{localStorage.setItem('hdm_tut','1');}catch(e){}closeSheet();break;
     case 'tutgo':{try{localStorage.setItem('hdm_tut','1');}catch(e){}closeSheet();if(v==='lab'){labSheet();}else{UI.tab=v;render();toast('Puedes volver al tutorial desde el menú ⋯');}break;}
     case 'theme':{const L=['dia','atardecer','noche'];const cur=document.documentElement.dataset.theme||'dia';const nx=L[(L.indexOf(cur)+1)%3];document.documentElement.dataset.theme=nx;try{localStorage.setItem('hdm_theme',nx);}catch(e){}t.textContent='🎨 Tema: '+({dia:'Día',atardecer:'Atardecer',noche:'Noche'})[nx]+' (tocar para cambiar)';break;}
@@ -3844,7 +3944,7 @@ document.addEventListener('click',e=>{
       else{G.name=n;G.colors={c1:SETUP.c1,c2:SETUP.c2};save();}
       SETUP.first=false;SETUP.done=true;closeSheet();render();toast('Cuadra: '+n);try{if(!localStorage.getItem('hdm_tut'))setTimeout(()=>tutSheet(0),350);}catch(e){}break;}
     case 'newgame':setupSheet({fresh:true,name:'Cuadra Los Aztecas'});break;
-    case 'week':{const rep=weekReport();render();showReport(rep);break;}
+    case 'week':{misDone('w');const rep=weekReport();render();showReport(rep);break;}
     case 'train':{const h=H(id),k=t.dataset.k;const c=trainCost(h,k);if(G.money<c||h.cond<30)break;
       const tired=h.cond<45&&Math.random()<0.25;G.money-=c;h.cond-=15;const gain=Math.max(1,Math.round(1+Math.random()*2*(1-h[k]/105)))+(Math.random()<Math.max(0,staffOf('T').sk-50)/100?1:0);h[k]=Math.min(99,h[k]+gain);
       if(tired){const L=statLoss(h,[0.02,0.04]);save();render();showHorse(id);toast(`💢 Exceso de trabajo: −${L.n} ${STL[L.k]}`);break;}
@@ -3865,7 +3965,7 @@ document.addEventListener('click',e=>{
     case 'listok':{const h=H(id);if(!h||h.syn)break;const v0=horseValue(h);const a=Math.max(Math.round(v0*0.5/50)*50,Math.round((+($('#lp')||{}).value||v0)/50)*50);
       h.ask=a;h.askUSA=t.dataset.usa==='1';h.listed=true;if(UI.mare===id)UI.mare=null;if(UI.sire===id)UI.sire=null;save();render();closeSheet();toast(`${h.name} entra a la ${h.askUSA?'Heritage Place USA':'subasta'} en ${fmt(a)}. Se resuelve al avanzar la semana.`);break;}
     case 'unlist':{const h=H(id);h.listed=false;h.ask=0;h.askUSA=false;save();render();closeSheet();toast('Retirado de la subasta');break;}
-    case 'buy':{const a=G.auction.find(x=>x.id===id);if(!a||G.money<a.price)break;
+    case 'buy':{const a=G.auction.find(x=>x.id===id);if(!a||G.money<a.price)break;misDone('b');
       if(a.status==='race'&&!a.usaK&&racersN()>=MAXRACERS){toast('Tu cuadra ya tiene '+MAXRACERS+' corredores. Vende, dona o retira alguno primero');break;}
       if(a.usaK==='share'){const si=Math.floor(Math.random()*G.stables.length);addRStud(si,a);const x=G.rstuds.filter(q=>q.sid===si&&q.name===a.name)[0];
         if(!x){toast('No se pudo cerrar la compra');break;}
@@ -3884,7 +3984,7 @@ document.addEventListener('keydown',e=>{
    ARRANQUE
    ============================================================ */
 G=load();
-if(G&&G.horses&&G.stables){G.earnS=G.earnS||0;G.ranch=G.ranch||'Rancho Los Potreros';G.hall=G.hall||[];G.priceIdx=G.priceIdx||[];G.tx=G.tx||[];G.classics=G.classics||[];G.sireW=G.sireW||{};G.kids=G.kids||{};G.trophies=G.trophies||[];G.crowns=G.crowns||[];[G.horses,G.rivalHorses].forEach(a=>a.forEach(h=>{if(h.aafQ&&!h.fq)h.fq={aaf:h.aafQ};}));G.rstuds=G.rstuds||[];G.horses.forEach(h=>{if(!h.br&&h.damId)h.br='me';});if(!G.staff)G.staff={T:{id:'T0',s:1},J:{id:'J0',s:1},F:{id:'F0',s:1}};while(G.stables.length<RIVALS.length){const si=G.stables.length;G.stables.push(Object.assign({earn:0,wins:0},RIVALS[si]));for(let k=0;k<8;k++)G.rivalHorses.push(mkRival(si));}if(!G.nm2){const old=new Set((G.horses||[]).map(x=>x.name));G.nm2=1;const ctx=nameCtx();
+if(G&&G.horses&&G.stables){if(!G.tut)G.tut={done:1};G.earnS=G.earnS||0;G.ranch=G.ranch||'Rancho Los Potreros';G.hall=G.hall||[];G.priceIdx=G.priceIdx||[];G.tx=G.tx||[];G.classics=G.classics||[];G.sireW=G.sireW||{};G.kids=G.kids||{};G.trophies=G.trophies||[];G.crowns=G.crowns||[];[G.horses,G.rivalHorses].forEach(a=>a.forEach(h=>{if(h.aafQ&&!h.fq)h.fq={aaf:h.aafQ};}));G.rstuds=G.rstuds||[];G.horses.forEach(h=>{if(!h.br&&h.damId)h.br='me';});if(!G.staff)G.staff={T:{id:'T0',s:1},J:{id:'J0',s:1},F:{id:'F0',s:1}};while(G.stables.length<RIVALS.length){const si=G.stables.length;G.stables.push(Object.assign({earn:0,wins:0},RIVALS[si]));for(let k=0;k<8;k++)G.rivalHorses.push(mkRival(si));}if(!G.nm2){const old=new Set((G.horses||[]).map(x=>x.name));G.nm2=1;const ctx=nameCtx();
   [G.rivalHorses,G.auction].forEach(a=>(a||[]).forEach(h=>{ctx.u.delete((h.name||'').toLowerCase());}));
   [G.rivalHorses,G.auction].forEach(a=>(a||[]).forEach(h=>{h.name=genName(h.sex,false,ctx);}));}
 G.rivalHorses.forEach(h=>{if(!h.damName)h.damName=genName('H',true);});G.rivalHorses.forEach(h=>{if(!h.sireName)h.sireName=Math.random()<0.5?pick(allSireNames()):genName('M');});[G.horses,G.rivalHorses,G.auction].forEach(a=>(a||[]).forEach(h=>{h.dist=snapDist(h.dist);}));G.records=G.records||{};for(const D of DISTS)if(!G.records[D])G.records[D]=Object.assign({week:0,you:false},SEED_RECORDS[D]);G.out=G.out||{};G.rivalHorses.forEach(h=>{if(h.ex&&h.exFrom===G.name&&!G.out[h.name])G.out[h.name]={n:h.name,sx:h.sex,st:G.stables[h.sid].name,w0:G.week,s0:curSeason(),bred:h.br==='me'?1:0,r:0,w:0,e:0,gp:0,es:0,ss:curSeason(),log:[],sire:h.sireName||'—',dam:h.damName||'—'};});applyStaffFees();buildMap();ensureRStuds();

diff --git a/www/sw.js b/www/sw.js
@@ -1,5 +1,5 @@
 /* Service worker: la app funciona sin conexión y se actualiza sola cuando hay internet */
-const V='v26-1795676048';
+const V='v29-1795679446';
 const SHELL=['./','index.html','manifest.webmanifest','icons/icon-192.png','icons/icon-512.png','icons/apple-touch-icon.png','peerjs.min.js','img/cuadra.webp','img/carreras.webp','img/crianza.webp','img/mercado.webp','img/pista.webp','img/parejeras.webp','img/pista_carrera.webp','img/foto_cuadra.webp','img/foto_semental.webp','img/foto_ganador.webp','img/foto_semental_tordillo.webp','img/foto_semental_alazan.webp','img/foto_semental_negro.webp','img/foto_yegua_palomino.webp','img/foto_potro_tordillo.webp','img/foto_potro_bayo.webp','img/foto_yegua.webp','img/foto_potro.webp','img/foto_venta.webp','img/mask_semental.png','img/mask_semental_b.png','img/mask_venta.png','img/mask_yegua.png','img/mask_potro.png'];
 self.addEventListener('install',e=>{e.waitUntil(caches.open(V).then(c=>c.addAll(SHELL)).then(()=>self.skipWaiting()));});
 self.addEventListener('activate',e=>{e.waitUntil(caches.keys().then(ks=>Promise.all(ks.filter(k=>k!==V).map(k=>caches.delete(k)))).then(()=>self.clients.claim()));});
